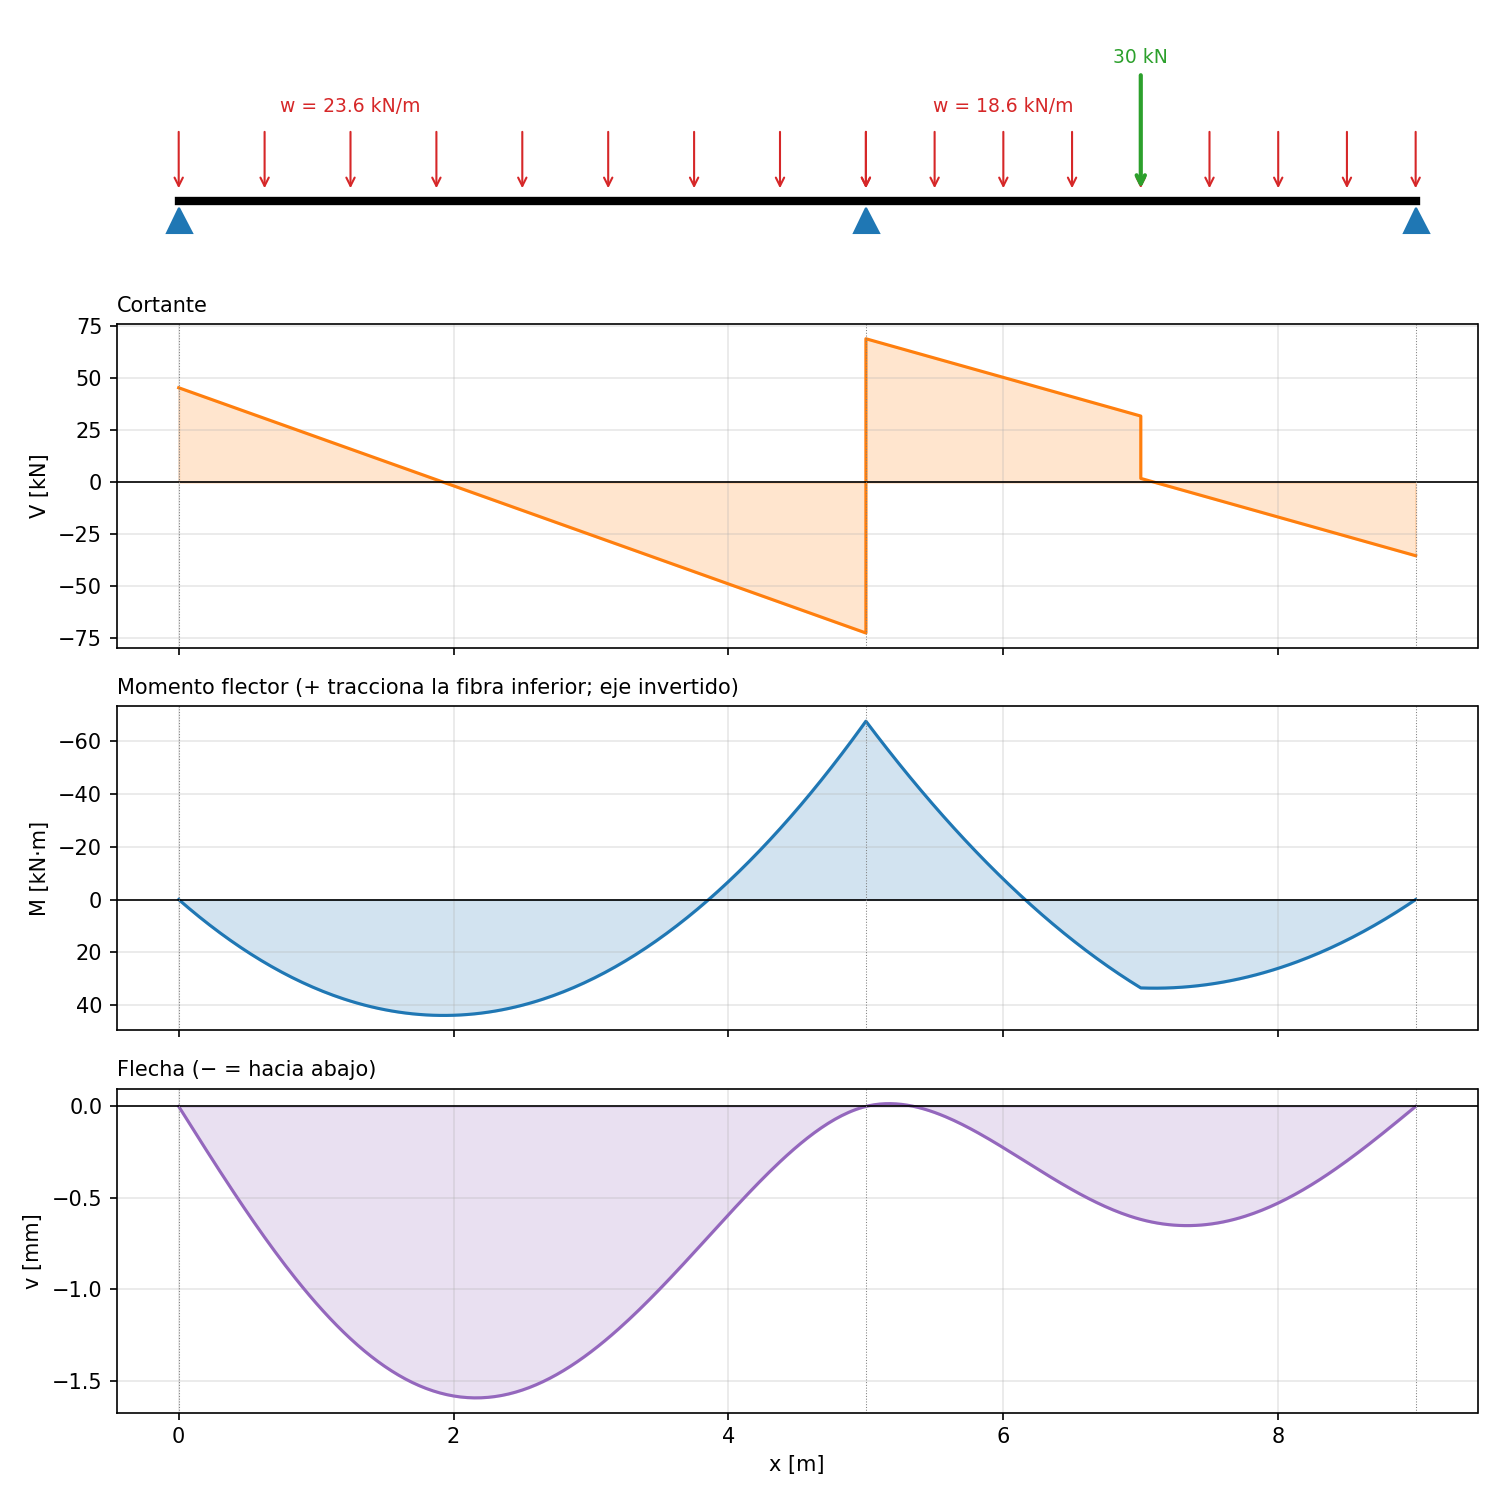
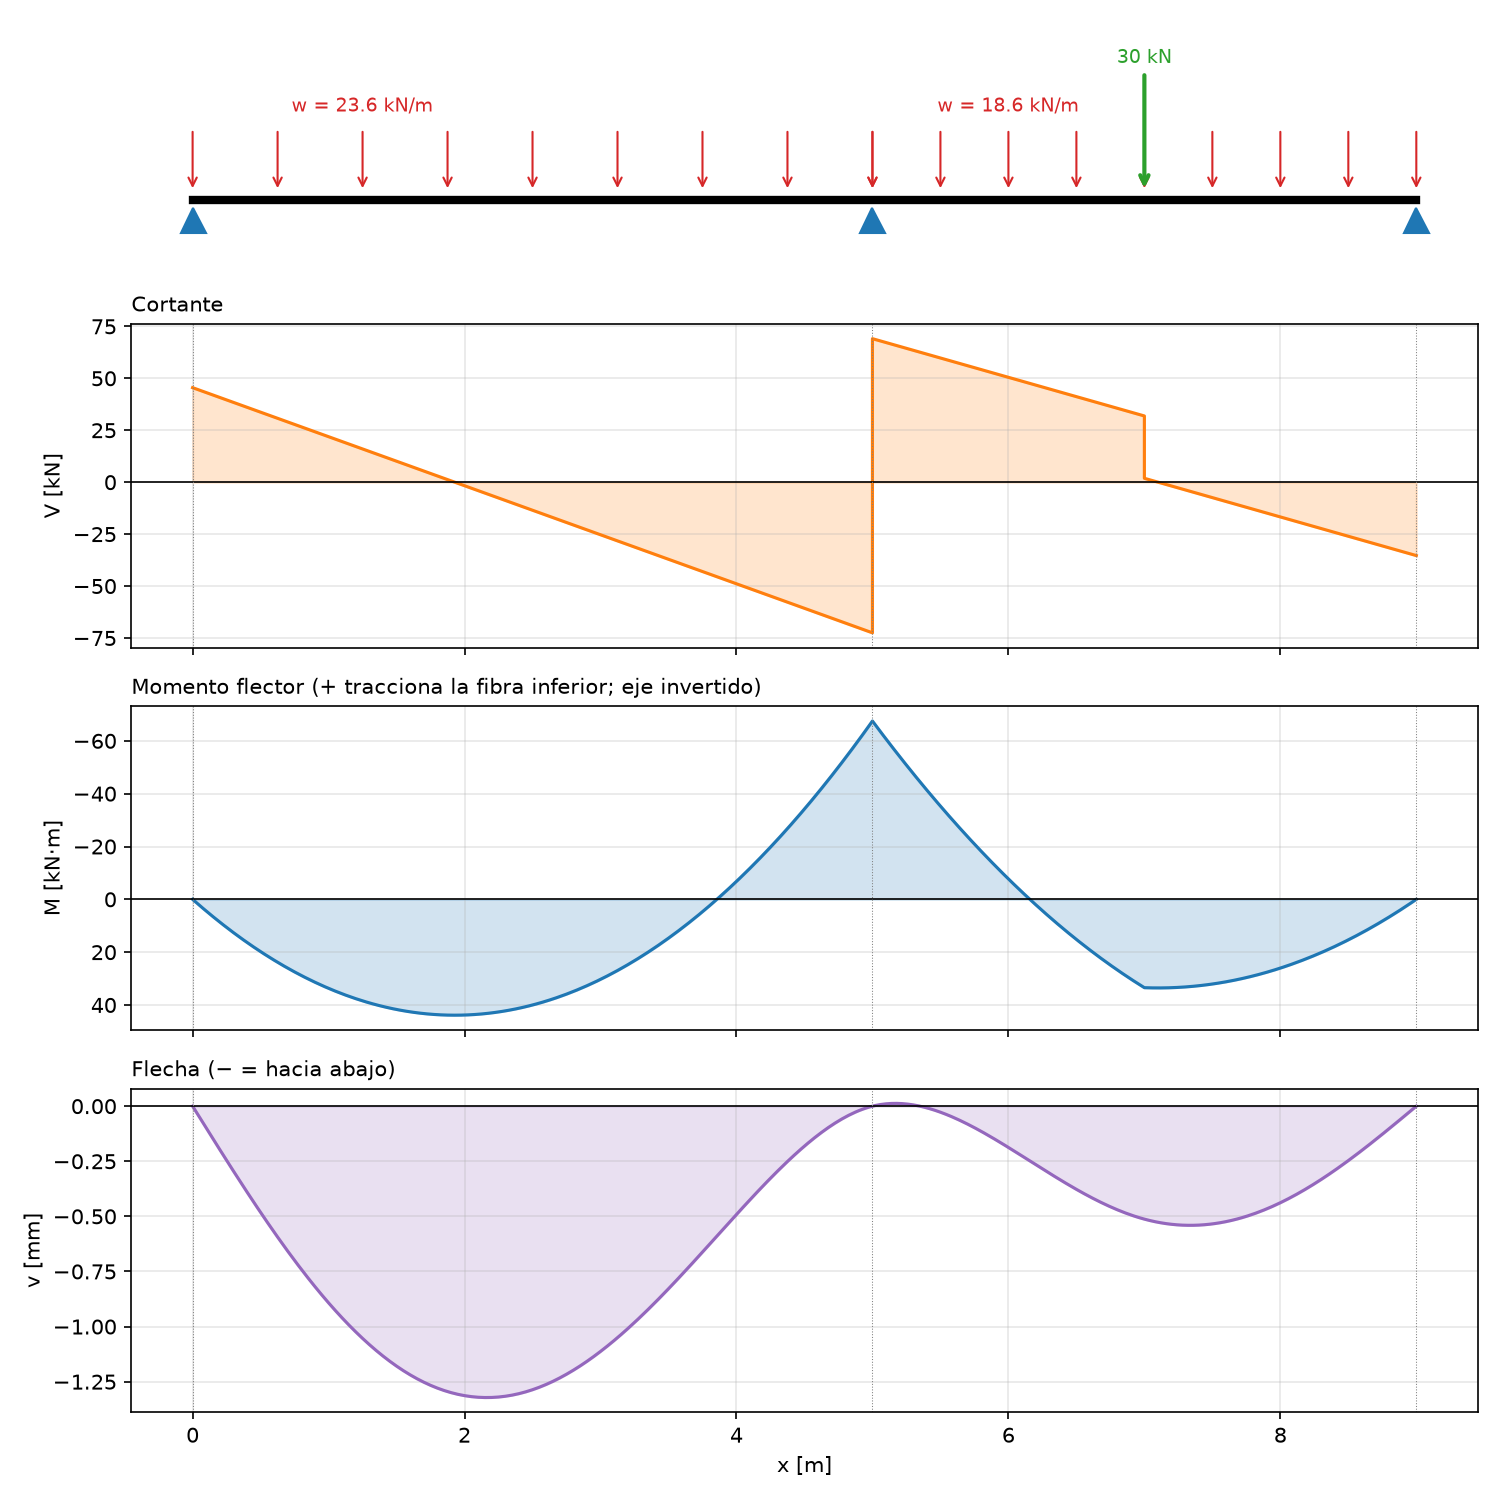
Corregir fórmula de Ec: 4700·√f'c en vez de 3900·√f'c
NSR-10 C.8.5.1 / ACI 318 usan Ec = 4700·√f'c (MPa) para concreto de
peso normal, no 3900. Se actualiza materiales.concreto(), el README y
se regeneran las imágenes de ejemplo (las flechas cambian ligeramente
con el nuevo E; reacciones y momentos no se ven afectados porque el
material es uniforme en cada viga).

diff --git a/estates/materiales.py b/estates/materiales.py
@@ -24,14 +24,15 @@ class Material:
 def concreto(fc_mpa, nu=0.2, gamma=24.0):
     """Concreto de peso normal a partir de su resistencia f'c.
 
-    Usa Ec = 3900·sqrt(f'c) [MPa] (NSR-10 C.8.5.1). Verifica la expresión y
-    la rigidez efectiva (fisuración) que exija tu curso o norma.
+    Usa Ec = 4700·sqrt(f'c) [MPa] (NSR-10 C.8.5.1 / ACI 318, concreto de
+    peso normal). Verifica la expresión y la rigidez efectiva (fisuración)
+    que exija tu curso o norma.
 
     Args:
         fc_mpa: resistencia a compresión f'c [MPa].
         nu: relación de Poisson, para G = E / (2(1 + nu)).
         gamma: peso específico [kN/m³].
     """
-    E = 3900.0 * np.sqrt(fc_mpa) * 1000.0            # MPa -> kPa
+    E = 4700.0 * np.sqrt(fc_mpa) * 1000.0            # MPa -> kPa
     return Material(f"Concreto f'c={fc_mpa:g} MPa", E, E / (2 * (1 + nu)),
                     gamma)

diff --git a/README.md b/README.md
@@ -67,7 +67,8 @@ hacia abajo [kN] y M antihorario [kN·m].
 - M > 0 tracciona la fibra inferior (en el gráfico, el eje de M está
   invertido para dibujar M+ del lado de la tracción).
 - Las cargas se ingresan con **hacia abajo positivo**.
-- Unidades: kN, m, kPa (= kN/m²). Por ejemplo, E = 1.8·10⁷ kPa ≈ 18 GPa.
+- Unidades: kN, m, kPa (= kN/m²). Por ejemplo, para f'c = 21 MPa,
+  E = 4700·√21·1000 ≈ 2.15·10⁷ kPa ≈ 21.5 GPa.
 
 ## Verificación
 
@@ -96,7 +97,7 @@ Los 16 tests comparan el programa con soluciones analíticas:
   concreto reforzado.
 - Solo flexión y cortante en el plano vertical: sin carga axial ni torsión
   (J se calcula, pero no interviene).
-- Ec = 3900·√f'c (NSR-10 C.8.5.1) y el límite de flecha L/360 son valores
+- Ec = 4700·√f'c (NSR-10 C.8.5.1 / ACI 318) y el límite de flecha L/360 son valores
   típicos: verifícalos con la norma y el criterio que corresponda.
 
 ## Estructura del repositorio
